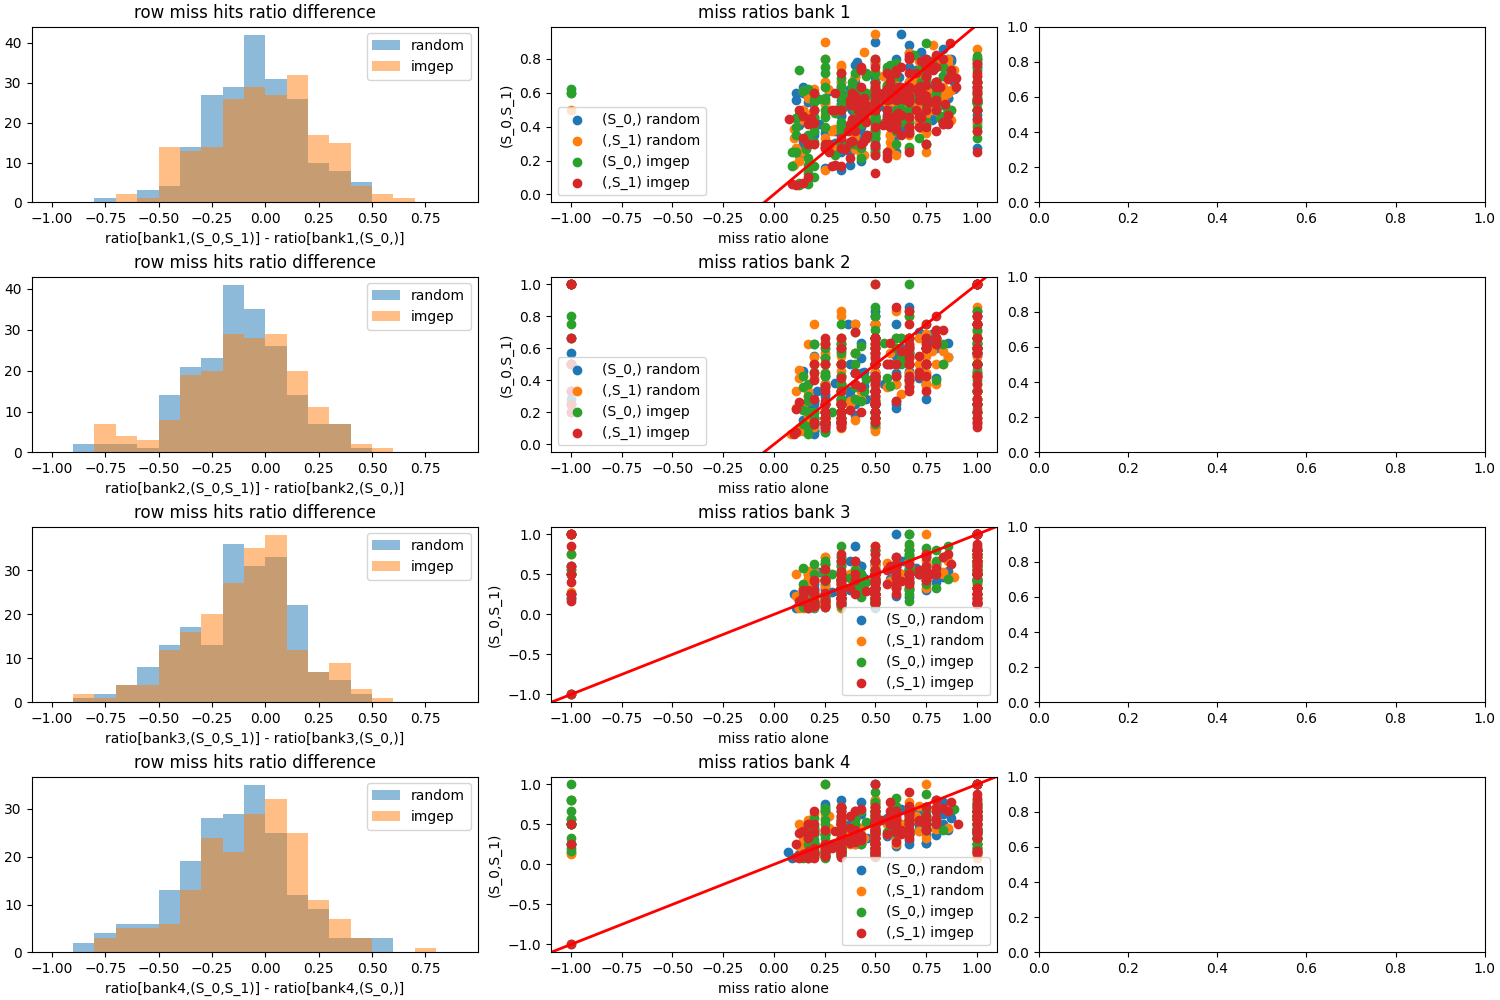
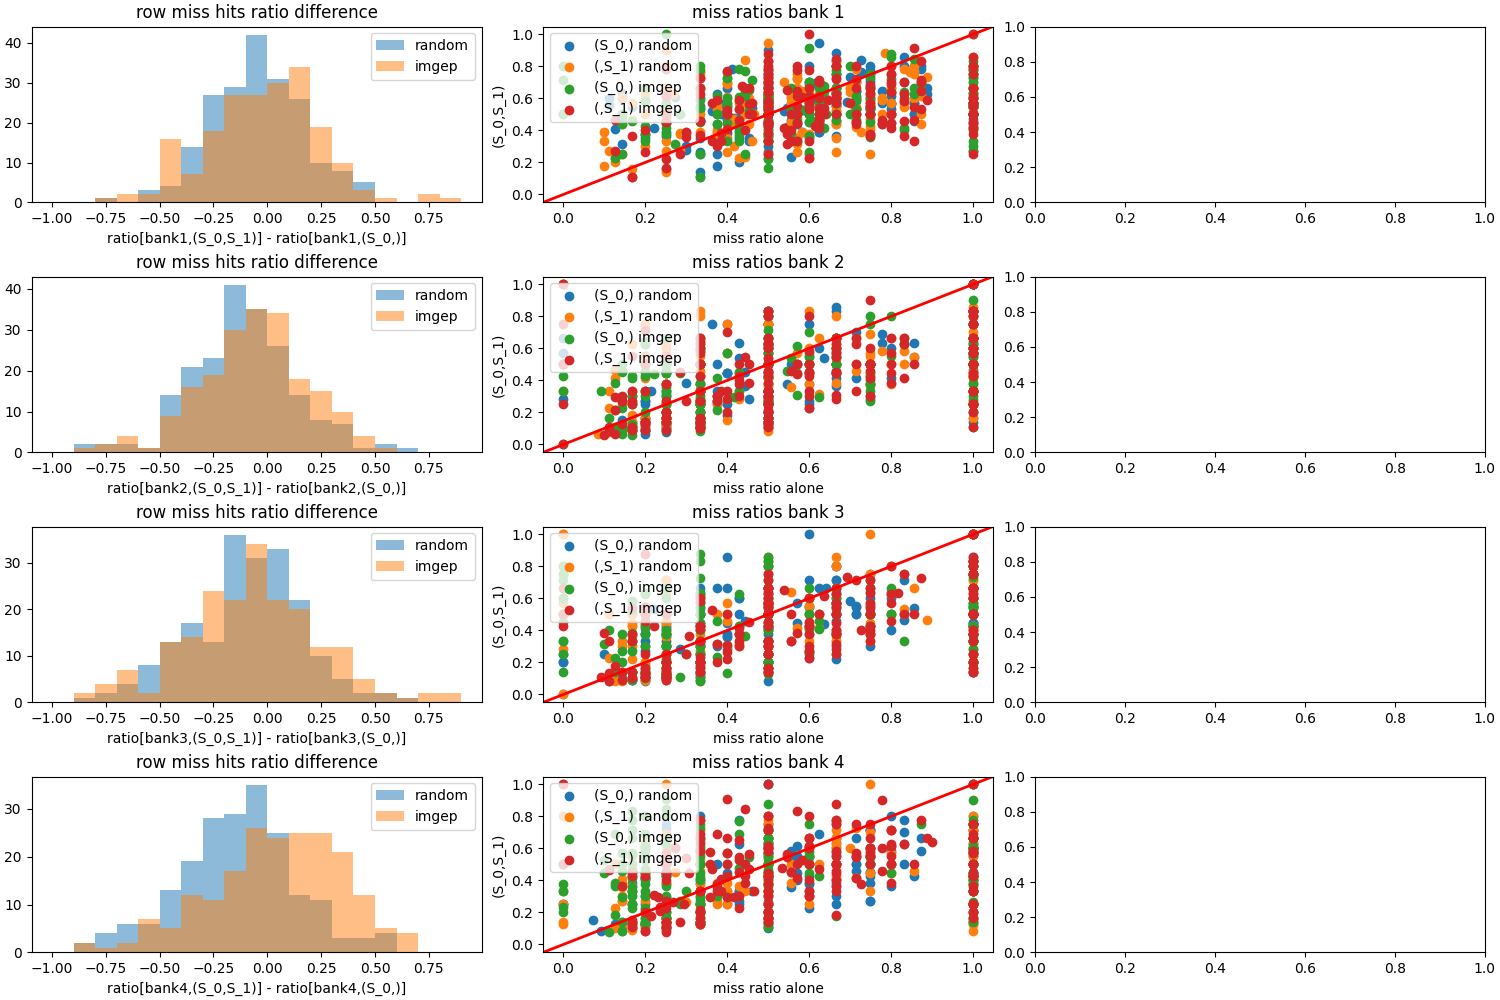
update

diff --git a/exploration/imgep/goal_generator.py b/exploration/imgep/goal_generator.py
@@ -3,39 +3,40 @@ import numpy as np
 import sys
 sys.path.append("../../")
 from exploration.history import History
-class GoalGenerator:
-    def __init__(self, max_len, num_addr):
-        self.num_addr = num_addr
-        self.max_len = max_len
-    def __call__(self, epsilon = .3)->dict:
-        def f():
-            len_ = self.max_len
-            out = np.ones(self.max_len)*(-1)
-            out[:len_] = np.random.randint(0, self.num_addr, (len_,))
-            return out
-        if np.random.binomial(1,1-epsilon):
-            out = np.concatenate((f(),f()))
-        else:
-            instr = f()
-            out = np.concatenate((instr, instr))
-        return {"addr":out}
 
-class GoalGenerator2:
-    def __init__(self, max_len, num_addr):
-        self.num_addr = num_addr
-        self.max_len = max_len
-        self.k = 0
-    def __call__(self,H:History, epsilon = .3,module="time")->dict:
+class GoalGenerator:
+    def __init__(self,num_bank):
+        self.num_bank = num_bank
+        self.k_time = 0
+        self.k_miss = 0
+    def __call__(self,H:History, module="time")->dict:
+        stats = H.stats()
         if module == "time":
-            stats = H.stats()
-            if self.k%10==0:
+            if self.k_time%10==0:
                 self.mincore0time = stats["time"]["core0"]["min"]
                 self.maxcore0time = stats["time"]["core0"]["max"]
                 self.mincore1time = stats["time"]["core1"]["min"] 
                 self.maxcore1time = stats["time"]["core1"]["max"] 
-                self.k==1
-            times = np.concatenate((np.floor(.6*np.random.randint(self.mincore0time,self.maxcore0time,(1,))),np.floor(2.0*np.random.randint(self.mincore1time,self.maxcore1time,(1,)))))
-            #times_together = np.concatenate((np.floor(.6*np.random.randint(self.mincore0time,self.maxcore0time,(1,))),np.floor(2.0*np.random.randint(self.mincore1time,self.maxcore1time,(1,)))))
-            delta = np.random.uniform(1.0,4.0,(2,))
-        times_together = np.floor(delta*times)
-        return np.concatenate((times,times_together))
+                self.k_time+=1
+            times = np.concatenate((np.floor(.5*np.random.randint(self.mincore0time,self.maxcore0time,(1,))),
+                np.floor(4.0*np.random.randint(self.mincore1time,self.maxcore1time,(1,)))))
+            delta = np.random.uniform(.6,4.0,(2,))
+            times_together = np.floor(delta*times)
+            return np.concatenate((times,times_together))
+        elif module in [f"miss_bank_{j}" for j in range(self.num_bank)]:
+            self.mincore0miss = stats["miss"]["core0"]["min"][int(module[-1])]
+            self.mincore1miss = stats["miss"]["core1"]["min"][int(module[-1])]
+            self.maxcore0miss = stats["miss"]["core0"]["max"][int(module[-1])]
+            self.maxcore1miss = stats["miss"]["core1"]["max"][int(module[-1])]
+            self.mintogethermiss = stats["miss"]["together"]["min"][int(module[-1])]
+            self.maxtogethermiss = stats["miss"]["together"]["max"][int(module[-1])]
+            self.k_miss+=1
+            minmiss = np.stack((self.mincore0miss, self.mincore1miss))
+            minmiss = (1-np.sign(minmiss)*0.4)*minmiss
+            maxmiss = 1.5*np.stack((self.maxcore0miss, self.maxcore1miss))
+            miss_target = np.random.uniform(minmiss,maxmiss)
+            together = np.mean(miss_target*np.random.uniform(.6,4.0,(1,)))
+            out = np.zeros(3)
+            out[:2] = miss_target
+            out[2] = together
+            return out

diff --git a/visu.py b/visu.py
@@ -64,7 +64,7 @@ def representation(content, content2 = None):
     plt.show()
 
 
-def comparaison(content_random, content_imgep = None):
+def comparaison(content_random, content_imgep = None, name = None):
     fig, axs = plt.subplots(4,3, figsize = (15,10), layout='constrained')
     for j in range(4):
         bins = np.arange(-1.0,1.0,0.1)
@@ -76,16 +76,24 @@ def comparaison(content_random, content_imgep = None):
 
         axs[j,1].scatter(content_random["miss_ratios_core0"][:,j],  content_random["miss_ratios"][:,j],  label="(S_0,) random")
         axs[j,1].scatter(content_random["miss_ratios_core1"][:,j],  content_random["miss_ratios"][:,j],  label="(,S_1) random")
-        axs[j,1].scatter(content_imgep["miss_ratios_core0"][:,j],  content_imgep["miss_ratios"][:,j],label="(S_0,) imgep")
-        axs[j,1].scatter(content_imgep["miss_ratios_core1"][:,j],  content_imgep["miss_ratios"][:,j],label="(,S_1) imgep")
         axs[j,1].set_xlabel("miss ratio alone")
         axs[j,1].set_ylabel("(S_0,S_1)")
         axs[j,1].axline(xy1=(0, 0), slope=1, color='r', lw=2)
         axs[j,1].set_title(f"miss ratios bank {j+1}")
         axs[j,1].legend()
 
-    plt.savefig("image/comparaison_miss_ratios")
-    plt.show()
+
+
+        axs[j,2].scatter(content_imgep["miss_ratios_core0"][:,j],  content_imgep["miss_ratios"][:,j],label="(S_0,) imgep")
+        axs[j,2].scatter(content_imgep["miss_ratios_core1"][:,j],  content_imgep["miss_ratios"][:,j],label="(,S_1) imgep")
+        axs[j,2].set_xlabel("miss ratio alone")
+        axs[j,2].set_ylabel("(S_0,S_1)")
+        axs[j,2].axline(xy1=(0, 0), slope=1, color='r', lw=2)
+        axs[j,2].set_title(f"miss ratios bank {j+1}")
+        axs[j,2].legend()
+
+    if name:
+        plt.savefig(name[0])
 
     fig, axs = plt.subplots(3,2, figsize = (15,10), layout='constrained')
     axs[0,0].scatter(content_random["time_core0_alone"],content_random["time_core0_together"], label="random")
@@ -108,8 +116,8 @@ def comparaison(content_random, content_imgep = None):
     axs[1,0].hist(content_imgep["time_core0_together"] - content_imgep["time_core0_alone"], bins="auto",alpha=.5, label="imgep")
     axs[1,0].set_xlabel("time[together] - time[alone]")
     axs[1,0].legend()
-    axs[1,1].hist(content_random["time_core1_together"]-content_random["time_core1_alone"], bins="auto", label="random")
-    axs[1,1].hist(content_imgep["time_core1_together"]-content_imgep["time_core1_alone"],   bins="auto", label="imgep")
+    axs[1,1].hist(content_random["time_core1_together"]-content_random["time_core1_alone"], bins="auto",alpha = .5, label="random")
+    axs[1,1].hist(content_imgep["time_core1_together"]-content_imgep["time_core1_alone"],   bins="auto",alpha = .5, label="imgep")
     axs[1,1].set_xlabel("time[together] - time[alone]")
     axs[1,1].legend()
 
@@ -118,9 +126,9 @@ def comparaison(content_random, content_imgep = None):
     axs[2,0].set_xlabel("time_core0_together")
     axs[2,0].set_ylabel("time_core1_together")
     axs[2,0].legend()
-
-    plt.savefig("image/comparaison_time")
-    plt.show()
+    if name:
+        plt.savefig(name[1])
+    #plt.show()
 if __name__=="__main__":
     random.seed(0)
     N = int(10)

diff --git a/exploration/imgep/OptimizationPolicy.py b/exploration/imgep/OptimizationPolicy.py
@@ -30,30 +30,32 @@ class OptimizationPolicykNN:
         self.k = k
         self.mutation_rate = mutation_rate
         self.max_len = max_len
-    def __call__(self,goal:np.ndarray,H:History)->dict:
-        closest_codes = self.select_closest_codes(H,goal) #most promising sample from the history
+        self.num_bank = 4
+    def __call__(self,goal:np.ndarray,H:History, module:str)->dict:
+        assert module in ["time"]+[f"miss_bank_{j}" for j in range(self.num_bank)], f"module {module} is unknown"
+        closest_codes = self.select_closest_codes(H,goal, module) #most promising sample from the history
         output = self.mix(closest_codes) #expansion strategie: small random mutation
         return output
     def mix(self,programs):
         mix0, mix1 = mix_instruction_lists(programs["program"]["core0"],self.max_len), mix_instruction_lists(programs["program"]["core1"],self.max_len)
-#        print("mix0", mix0)
         output = self.light_code_mutation({"core0":mix0[:self.max_len],"core1":mix1[:self.max_len]}) #expansion strategie: small random mutation
         return output 
-    def select_closest_codes(self,H:History,signature: np.ndarray)->dict:
+    def loss(self,goal:np.ndarray, elements:np.ndarray):
+        a = goal.reshape(-1,1) 
+        return  np.sum((a -elements)**2,axis=0)
+    def select_closest_codes(self,H:History,signature: np.ndarray,module:str)->dict:
         assert len(H.memory_program)>0, "history empty"
-        b,_ = H.times2ndarray()
-        a = signature.reshape(-1,1) 
-        d = np.sum((a -b)**2,axis=0)
-
+        if module=="time":
+            b,_ = H.times2ndarray()
+        else:
+            b,_ = H.miss2ndarray(int(module[-1]))
+        d = self.loss(signature,b)
         idx = np.argsort(d)[:self.k]
-        output = {"program": {"core0":[],
-                            "core1":[]},
-                }
+        output = {"program": {"core0":[],"core1":[]},}
         for id_ in idx:
             output["program"]["core0"].append(H.memory_program["core0"][id_])
             output["program"]["core1"].append(H.memory_program["core1"][id_])
         return output
-
     def light_code_mutation(self,programs:dict[list[dict]]):
         mutated0, mutated1 = mutate_paire_instructions(programs["core0"], programs["core1"],mutation_rate = self.mutation_rate)
         return {"core0":[mutated0[:self.max_len]],"core1":[mutated1[:self.max_len]]}

diff --git a/test.py b/test.py
@@ -4,7 +4,7 @@ import numpy as np
 from exploration.random.func import RANDOM
 from exploration.env.func import Env
 from exploration.history import History
-from exploration.imgep.goal_generator import GoalGenerator2
+from exploration.imgep.goal_generator import GoalGenerator
 from exploration.imgep.OptimizationPolicy import OptimizationPolicykNN
 from exploration.imgep.imgep import IMGEP
 import matplotlib.pyplot as plt
@@ -12,10 +12,12 @@ from visu import representation, comparaison
 
 if __name__=="__main__":
     random.seed(0)
-    N = int(200)
+    N = int(500)
     N_init = 50
-    max_len = 500  
+    max_len = 1000  
     length_programs = 100
+    k = 4
+    periode = 5
 
     H_rand = History(max_size=1000)
     H2_rand = History(max_size=1000)
@@ -23,17 +25,14 @@ if __name__=="__main__":
     rand = RANDOM(N = N,E = En, H = H_rand, H2 = H2_rand)
     rand()
     content_random = H_rand.present_content()
-    print("content_random", content_random.keys())
-    print("content_random", min(content_random["time_core0_together"]), max(content_random["time_core0_together"]))
-    print("content_random", min(content_random["time_core1_together"]), max(content_random["time_core1_together"]))
     
-    G = GoalGenerator2(max_len = 0,num_addr = 10)
-    Pi = OptimizationPolicykNN(k=10,mutation_rate=.1,max_len=50)
-    H_imgep = History(max_size=1000)
-    H2_imgep = History(max_size=1000)
-
-    imgep = IMGEP(N,N_init, En,H_imgep,G,Pi)
-    imgep()
-    content_imgep = H_imgep.present_content()
-    #representation(content_imgep)
-    comparaison(content_random, content_imgep)
+    for k in range(1,8,2):
+        G = GoalGenerator(num_bank = 4)
+        Pi = OptimizationPolicykNN(k=k,mutation_rate=.2,max_len=50)
+        H_imgep = History(max_size=1000)
+        H2_imgep = History(max_size=1000)
+        imgep = IMGEP(N,N_init, En,H_imgep,G,Pi, periode = periode)
+        imgep()
+        content_imgep = H_imgep.present_content()
+        comparaison(content_random, content_imgep, name = [f"image/comp_ratios_{k}",f"image/comp_times_k{k}"])
+        print(f"done: k = {k}")

diff --git a/exploration/history.py b/exploration/history.py
@@ -20,9 +20,17 @@ class History:
         mincore0 = min(self.memory_perf["time_core0_alone"])
         maxcore1 = max(self.memory_perf["time_core1_alone"])
         mincore1 = min(self.memory_perf["time_core1_alone"])
+        mintogeth = np.min(self.memory_perf["miss_ratios"],axis=0)
+        maxtogeth = np.max(self.memory_perf["miss_ratios"],axis=0)
+        minmiss0 = np.min(self.memory_perf["miss_ratios_core0"],axis=0)
+        maxmiss0 = np.max(self.memory_perf["miss_ratios_core0"],axis=0)
+        minmiss1 = np.min(self.memory_perf["miss_ratios_core1"],axis=0)
+        maxmiss1 = np.max(self.memory_perf["miss_ratios_core1"],axis=0)
         return {"time":{"core0":{"min":mincore0, "max":maxcore0},
-                       "core1":{"min":mincore1, "max":maxcore1}}
-                       }
+                       "core1":{"min":mincore1, "max":maxcore1}},
+                       "miss": {"together":{"min":mintogeth,"max":maxtogeth},
+                         "core0":{"min":minmiss0, "max":maxmiss0},
+                         "core1":{"min":minmiss1, "max":maxmiss1}}}
     def eviction(self):
         if len(self.memory_program)>self.max_size:
             self.memory_program["core0"] = self.memory_program["core0"][-self.max_size:]
@@ -58,6 +66,10 @@ class History:
         output  = {key:np.array(self.memory_perf[key]) for key in self.memory_perf.keys()}
         return output
     def times2ndarray(self)->(np.ndarray,list[str]):
-        keys = ["time_core0_together", "time_core1_together", "time_core0_alone", "time_core1_alone"]
+        keys = ["time_core0_alone", "time_core1_alone","time_core0_together", "time_core1_together"]
         out = np.array([np.array(self.memory_perf[key]) for key in keys])
+        return out,keys
+    def miss2ndarray(self, bank:int):
+        keys = ["miss_ratios_core0","miss_ratios_core1","miss_ratios"]
+        out = np.array([np.array(self.memory_perf[key])[:,bank] for key in keys])
         return out,keys

diff --git a/sim/sim_use.py b/sim/sim_use.py
@@ -168,10 +168,11 @@ class runpgrms:
         #plt.figure()
         #plt.plot(self.out0["delay"])
         #plt.show()
-
-        self.ratios = miss/(miss + hits)
-        #print(miss+hits)
-        self.ratios[np.isnan(self.ratios)] = -1
+        denominator = miss + hits
+        denominator[denominator==0] = -1
+        self.ratios = miss/(denominator)
+        self.ratios[self.ratios<0] = -1
+        #self.ratios[np.isnan(self.ratios)] = -1
     def acces_history(self):   
         a = np.zeros(self.max_instr)   
         b = np.zeros(self.max_instr)   

diff --git a/README.md b/README.md
@@ -66,7 +66,7 @@ By performing exploration, we would like the white space within the scatter plot
 ### Goal generator
 Let's note the cores $c_{0}$ and $c_{1}$.
 * Periodically set the sampling boundaries based on the history $\mathcal{H}$:
-	* $min T (c_{0}),max T (c_{0}),min T (c_{1}),max T (c_{1}) \leftarrow \mathcal{H}.stats()$
+	* $min T (c_{0}),max T (c_{0}),min T (c_{1}),max T (c_{1})$ $ \leftarrow \mathcal{H}.stats()$
 * Sample the time vector $(t_{\cdot,1}(c_{1}),t_{0,\cdot}(c_{0}), t_{0,1}(c_{1}),t_{0,1}(c_{0}))$ in two stages:
 
 	* $(t_{\cdot,1},t_{0,\cdot})\sim (\mathcal{U}([min T (c_{0}), max T (c_{0})]),\mathcal{U}([min T (c_{1}), max T (c_{1})]))$
@@ -93,7 +93,7 @@ class GoalGenerator:
         return np.concatenate((times,times_together))
 ```
 ### Goal strategy achievement
-For a given time goal $g$, I choose to exploit a **kNN** model with a loss function based on the L2 norm(${\mathcal{L}}(g)(z) = \sum_{i}{(z_{i} - g_{i})}^{2}$):
+For a given time goal $g$, I choose to exploit a **kNN** model with a loss function based on the L2 norm, ${\mathcal{L}}(g)(z) = \sum_{i}{(z_{i} - g_{i})}^{2}$):
 *  to select the **k** closest time vectors from our database $\mathcal{H}$. 
 * Once k tuples $((S_{0},S_{1}),(t_{\cdot,1}(c_{1}),t_{0,\cdot}(c_{0}), t_{0,1}(c_{1}),t_{0,1}(c_{0})))\in\Theta\times\mathcal{T}$ are selected, mix the pairs of programs together to produce a new one. See function `exploration.imgep.mix_instruction_lists`
 * If `k=1`, the **kNN** model returns the program corresponding to the closest pair from $g$, that is $(S_{0},S_{1})$. If `k>1` the model returns the mixed pair of program.
